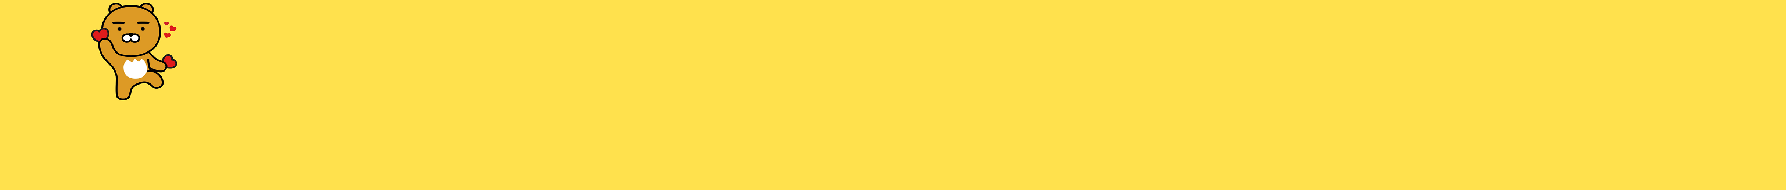
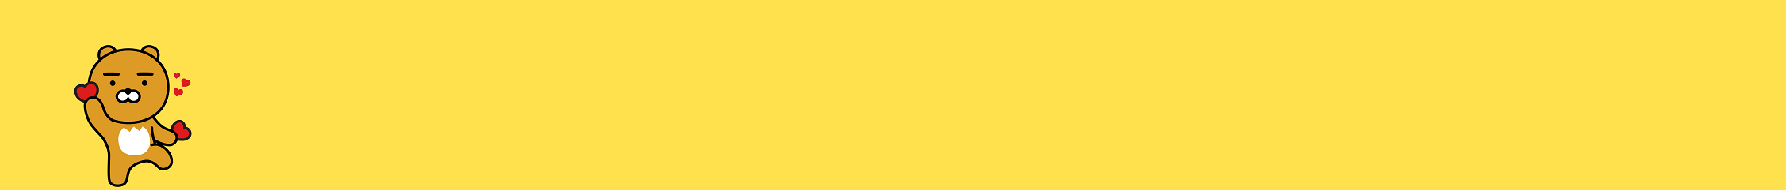
Add files via upload

Changed region(s): [[0.0308, 0.0, 0.1232, 0.9737]]

diff --git a/title.html b/title.html
@@ -5,13 +5,13 @@
     <style>
     body {text-align: center;
           background-image:url('lian.png')};
-    h2 {
+    h1 {
     margin-block-start: 2.0em;
     margin-block-end: 5.0em;
   };
     </style>
     </head>
   <body>
-  <h2> 베어스 코딩랜드에 오신걸 환영합니다! </h2>
+  <h1> 베어스 코딩랜드에 오신걸 환영합니다! </h1>
   </body>
 </html>

diff --git a/index.html b/index.html
@@ -3,7 +3,7 @@
 <head>
     <meta charset="utf-8"/>
     </head>
-    <frameset rows = "10%,30%,60%">
+    <frameset rows = "8%,20%,72%">
       <frame src = "title.html">
       <frame src = "3game.html">
       <frame src = "lotto.html">
